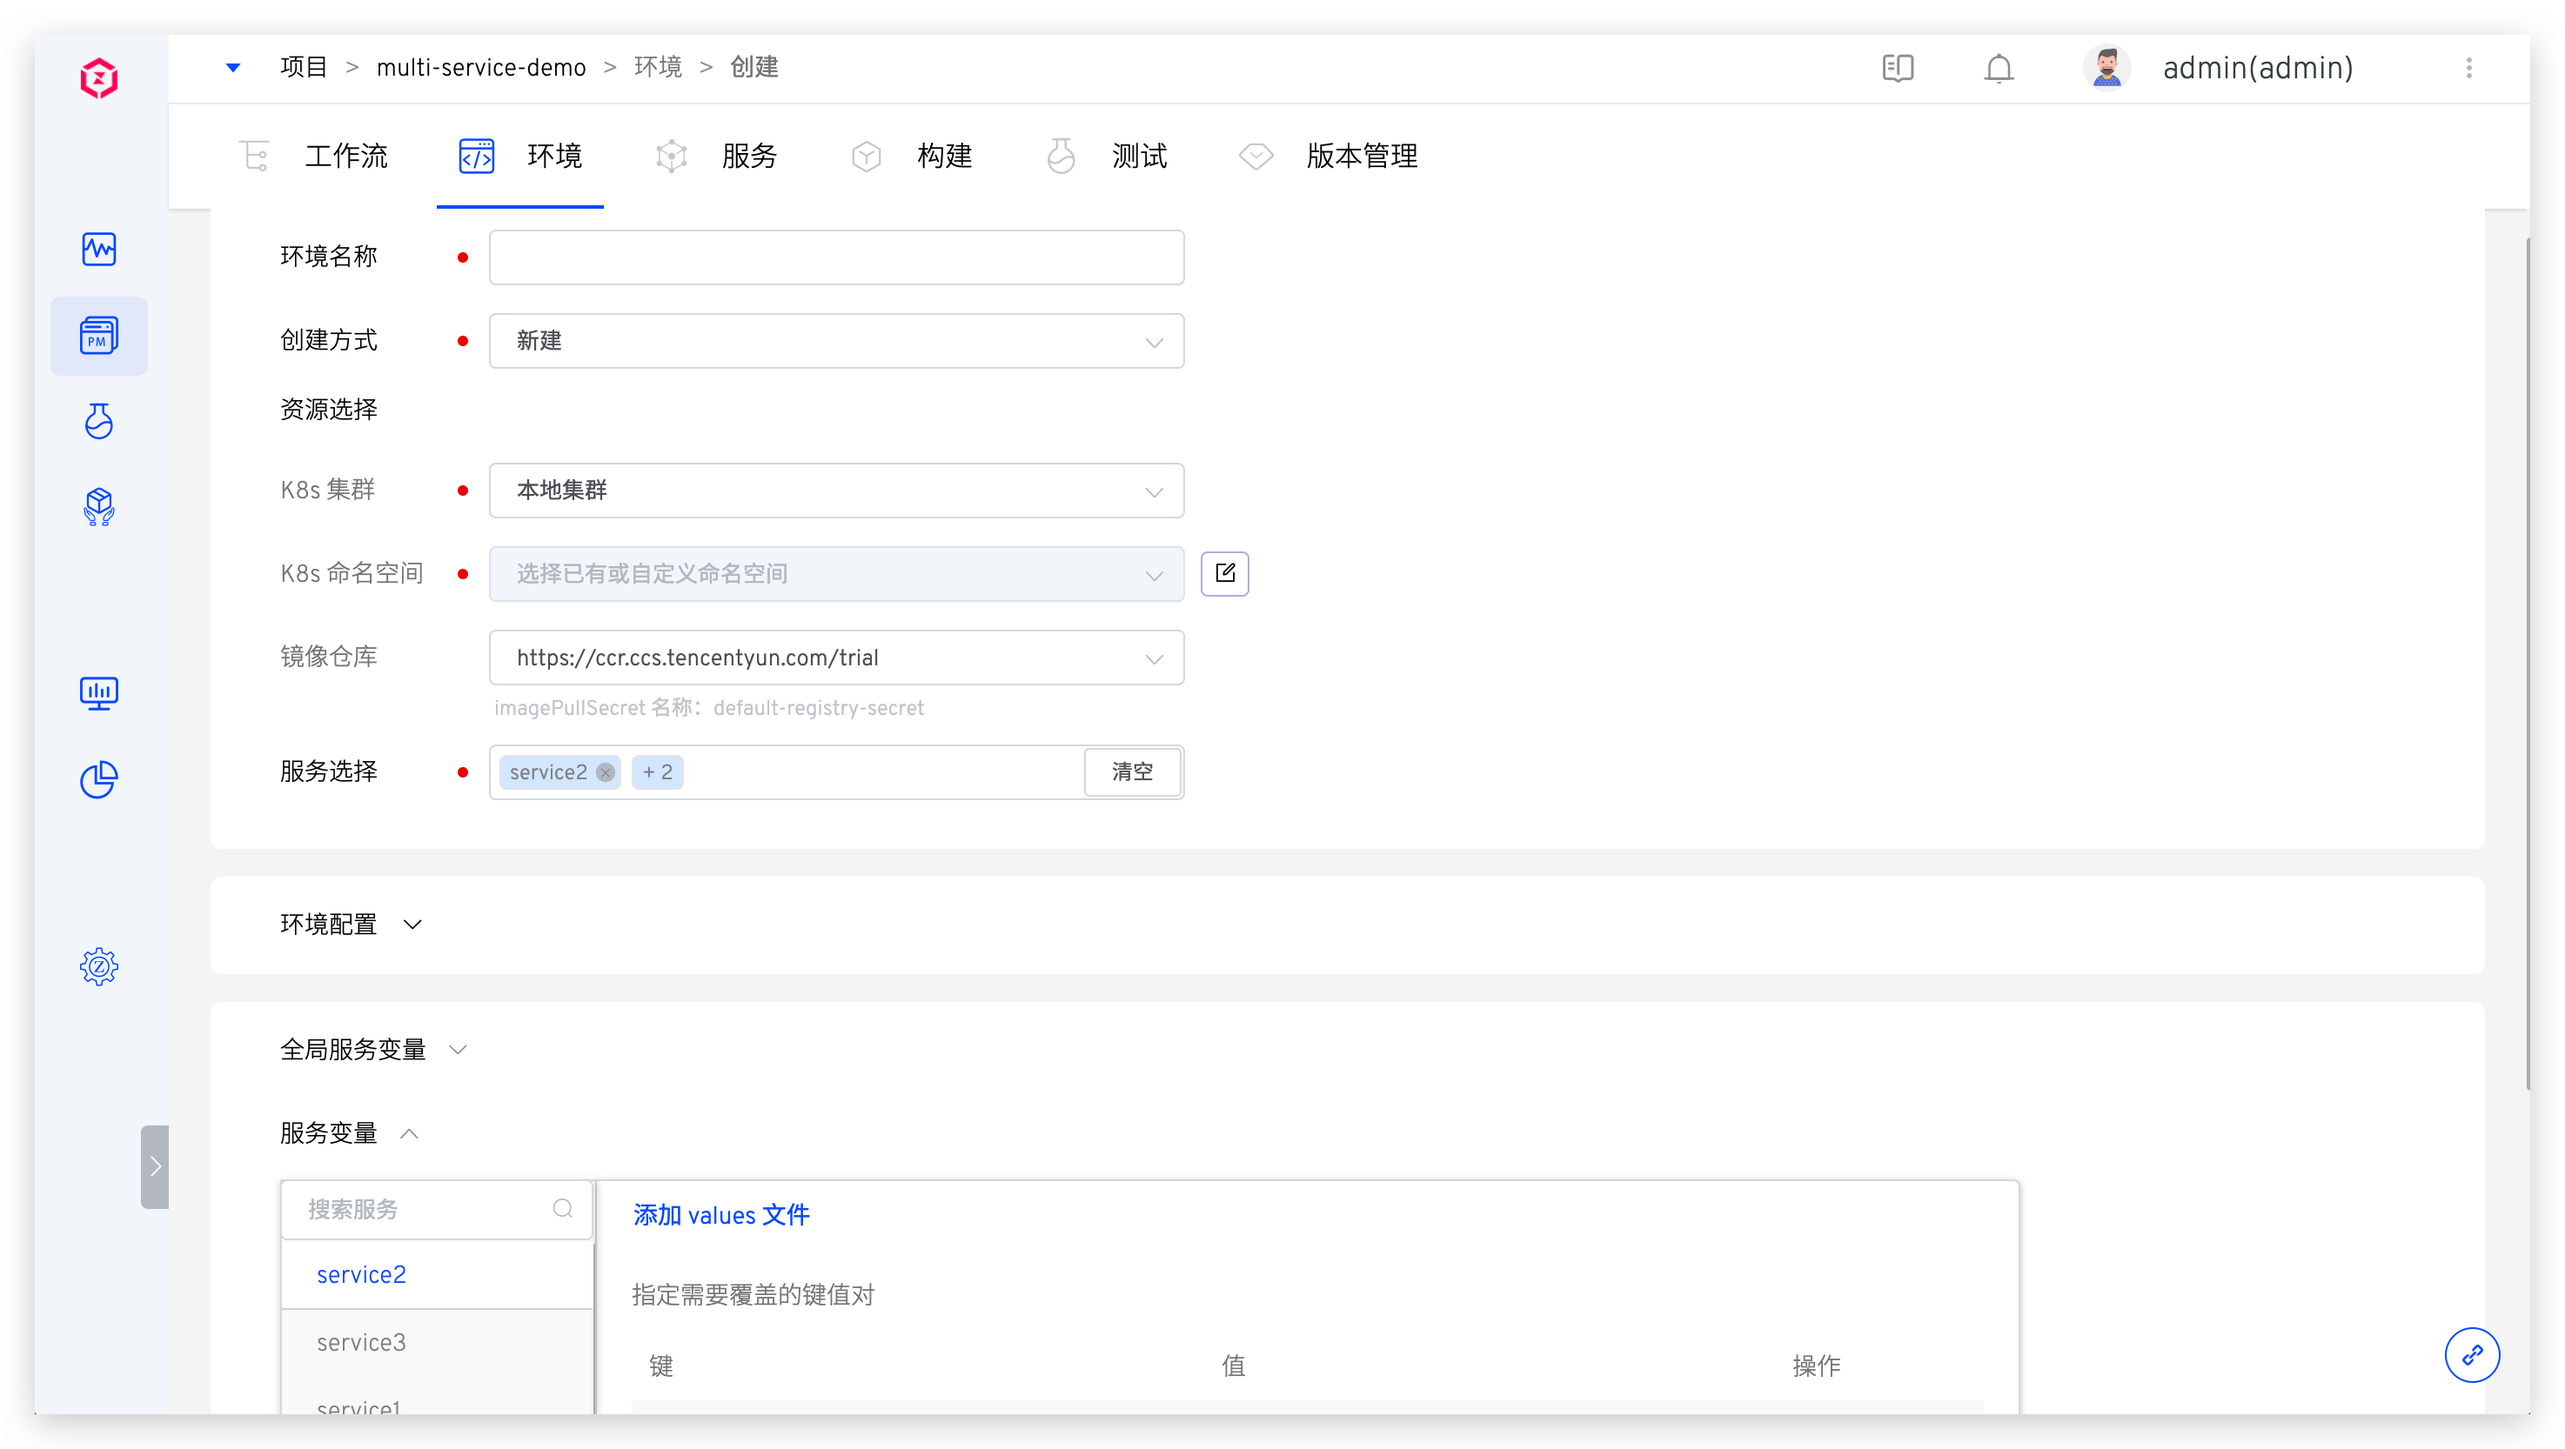
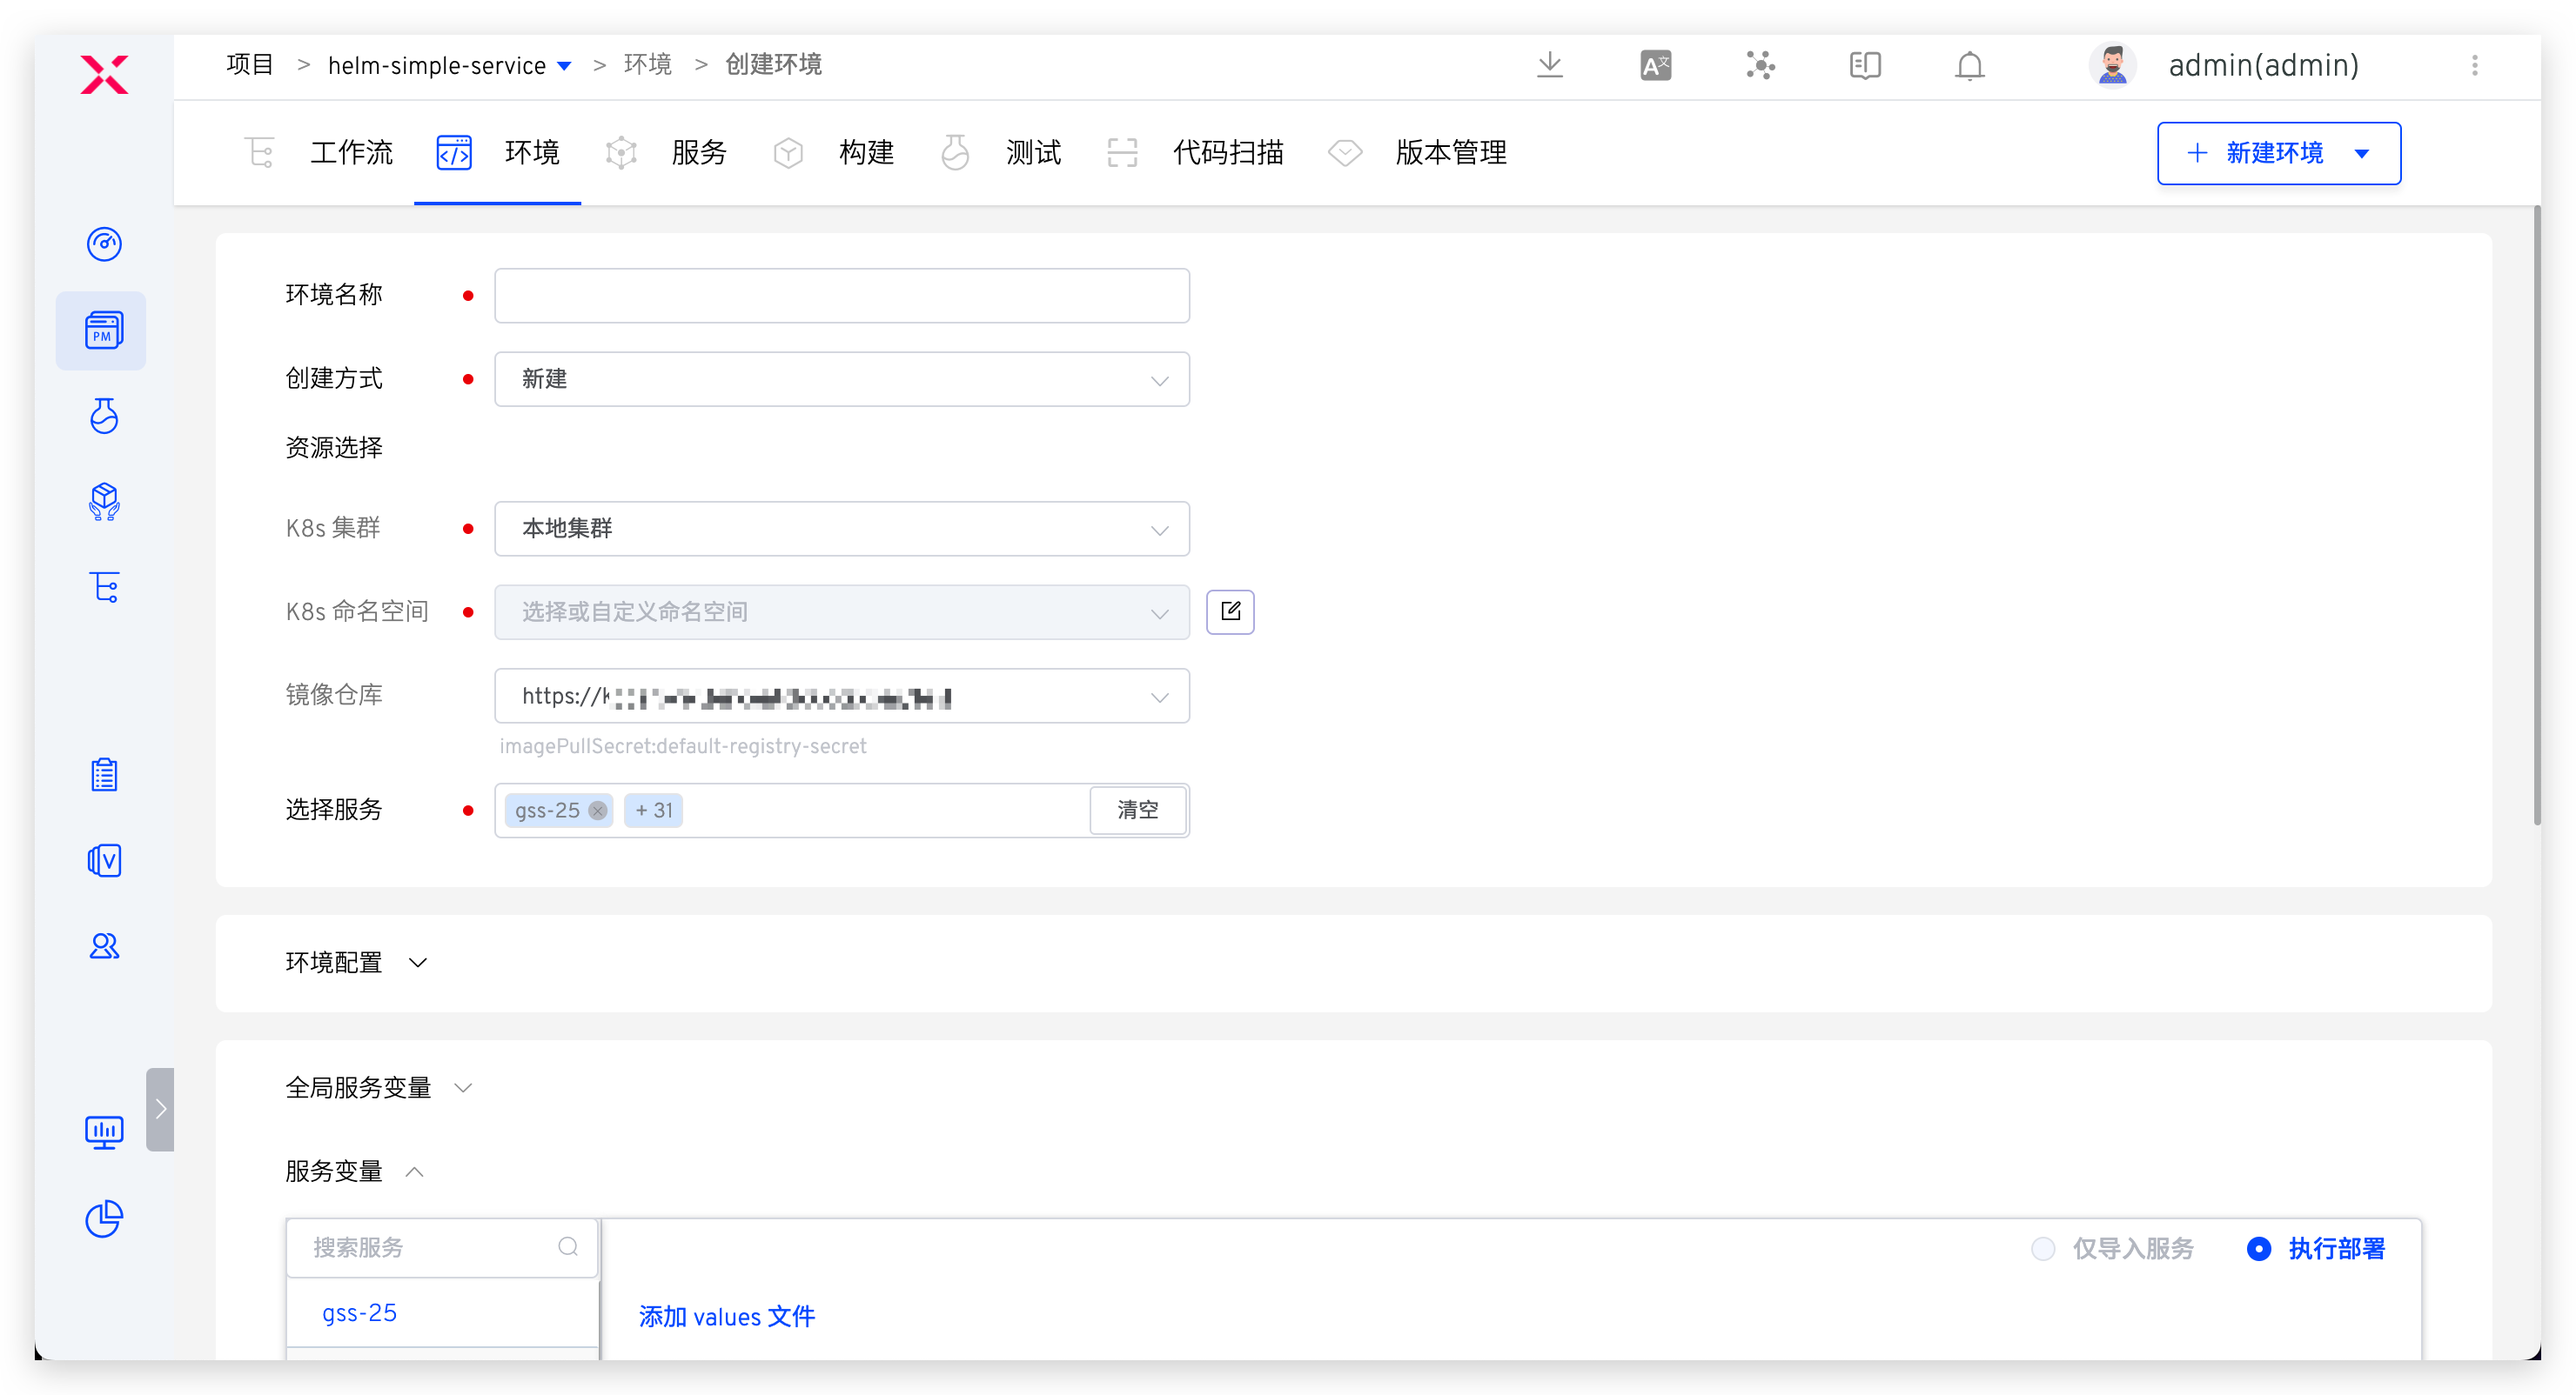
update helm chart test env

diff --git a/ZadigX v1.5.0/05.功能介绍/03.环境/03.k8s_helm_environment.md b/ZadigX v1.5.0/05.功能介绍/03.环境/03.k8s_helm_environment.md
@@ -6,24 +6,39 @@ permalink: /ZadigX v1.5.0/project/env/helm/chart/
 
 本文主要介绍 K8s Helm Chart 项目中的测试环境相关操作。
 
-## 创建环境
+## 查看环境
 
-在项目中，点击`创建环境`按钮，选择测试环境后进入创建环境页面。
+环境创建完成后，点击不同的 Tab 即可切换到该环境的详情页面。
+
+![环境详情](../_images/show_helm_test_env.png)
+
+环境的基本信息包括 K8s 集群，K8s 命名空间，更新时间，环境状态，镜像仓库，服务列表及  Chart 视图。
+
+- Chart 视图的介绍可参考文档：[Chart 视图](#chart-视图)
+- 其他介绍可参考 K8s YAML 测试环境中的描述：[查看环境](/ZadigX%20v1.5.0/project/env/k8s/#查看环境)
+
+## 新建环境
+
+::: tip
+1. 在将指定的服务部署到新创建的环境中前，系统会使用 dryRun 参数对相关 chart 进行渲染，若有提示报错请检查服务 chart 配置是否合法。
+2. 服务数量以及启动服务所需的资源会影响环境的创建时间，请耐心等待。
+:::
+
+在项目中，点击`新建环境`按钮，选择测试环境后进入创建环境页面。
 
 ![新建 Helm Chart 环境](../_images/create_helm_chart_env_1.png)
 
 ![新建 Helm Chart 环境](../_images/create_helm_chart_env_2.png)
 
 ### 基本信息
-- `环境名称`：要创建的环境的名称，比如：`dev`、`pre-release`。
-- `创建方式`：包括`新建`和`复制`。
-	- `新建`：基于服务的 Chart 配置，创建全新的环境。
-	- `复制`：基于在 ZadigX 中已有的环境复制一份新的环境出来。
-- `选择环境`：当创建方式是`复制`时需要配置该项，用于选择要复制的环境。
+
+- `环境名称`：要创建的环境的名称，根据实际语义配置即可，比如：`dev`、`pre-release`。
+- `创建方式`：支持`新建`和`复制`两种方式，复制环境可参考：[复制环境](#复制环境)。
 - `资源选择`：
 	- `K8s 集群`：选择创建环境时所使用的集群资源，其中`本地集群`指 ZadigX 系统所在的集群。关于集群的集成可参考[集群管理](/ZadigX%20v1.5.0/pages/cluster_manage/)。
 	- `K8s 命名空间`：不同的环境会使用独立的 Kubernetes 命名空间实现隔离。ZadigX 系统创建命名空间的默认规则为 `项目名-env-环境名`，用户也可以自定义或者选择已有命名空间。
 	- `镜像仓库`：指定环境创建后所使用的镜像仓库，使用工作流构建部署服务，以及修改服务镜像，均会使用此处指定的镜像仓库。关于镜像仓库的集成可参考[镜像仓库管理](/ZadigX%20v1.5.0/settings/image-registry/#添加镜像仓库)。
+- `服务选择`：选择创建环境所包含的服务，默认为当前项目下的所有服务。
 
 ### 环境配置
 
@@ -35,26 +50,22 @@ permalink: /ZadigX v1.5.0/project/env/helm/chart/
 
 ![新建 Helm Chart 环境配置](../_images/add_k8s_helm_chart_env_config.png)
 
-### 全局变量
-点击展开`全局变量`，可修改 values 文件内容设置环境级别的变量值，系统支持 2 种方式设置全局变量：
+### 全局服务变量
+点击展开`全局服务变量`，可修改 values 文件内容设置环境级别的变量值，支持 2 种方式：
 
 - 手动输入 YAML 格式文件的内容，内容详情即为要设置的变量信息。
-- 从指定 GitHub/GitLab 代码库同步 values。
-	- 在导入时打开自动同步开关，ZadigX 会定时从指定的代码库获取最新的 values 文件并将其自动更新到环境中。
-
-后续代码库中 values 内容有变化时，会自动同步修改当前环境的全局服务变量内容。
+- 从指定 GitHub/GitLab 代码库同步 values。如果打开`自动同步`开关，ZadigX 会定时从指定的代码库获取最新的 values 文件并将其自动更新到环境中。
 
 ![从代码库导入 values](../_images/auto_sync_helm_chart_values_1.png)
 
 ### 服务变量
 
-可选择修改指定服务的 values 文件内容配置服务级别的变量值，系统支持 3 种方式修改服务变量：
+可修改指定服务的 values 文件内容，配置服务级别的变量值，支持 3 种方式：
 - 手动输入 values 文件内容。
-- 从指定 GitHub/GitLab 代码库同步 values 文件。
-	- 在导入时打开自动同步开关，ZadigX 会定时从指定的代码库获取最新的 values 文件并将其自动更新到环境中。
+- 从指定 GitHub/GitLab 代码库同步 values 文件。如果打开`自动同步`开关，ZadigX 会定时从指定的代码库获取最新的 values 文件并将其自动更新到环境中。
+- 手动输入键值对，覆盖服务配置中的 values 文件内容。
 
 ![从代码库导入 values](../_images/auto_sync_helm_chart_values.png)
-- 手动输入 key/value 键值对，覆盖在创建 Helm Chart 服务时导入的 values 文件内容。
 
 ::: tip 扩展知识
 1. 服务变量的设置只对单一服务生效。
@@ -62,67 +73,30 @@ permalink: /ZadigX v1.5.0/project/env/helm/chart/
 2. 如果既设置了全局服务变量，又设置了服务变量时，服务变量的优先级高于全局服务变量。
 :::
 
-### 开始创建
-输入环境名称，按需设置服务变量等信息后，点击`立即创建`按钮即可开始创建环境。
+## 复制环境
 
-::: tip
-1. 在将指定的服务部署到新创建的环境中前，系统会使用 dryRun 参数对相关 chart 进行渲染，若有提示报错请检查服务 chart 配置是否合法。
-2. 服务数量以及启动服务所需的资源会影响环境的创建时间，请耐心等待。
-:::
+参考 K8s YAML 测试环境中的描述：[复制环境](/ZadigX%20v1.5.0/project/env/k8s/#复制环境)。
 
-## 查看环境
-环境创建完成后，点击不同的环境 Tab 即可切换到该环境的详情页面。
-
-![查看 Helm Chart 环境](../_images/helm_chart_env_list.png)
-
-### 基本信息
-基本信息包括 K8s 集群，K8s 命名空间，更新时间，环境状态，镜像仓库，服务列表及 [Chart 视图](#chart-视图)。
-
-环境状态有以下几种情况：
-- `创建中`：正在创建。
-- `更新中`：正在更新。
-- `删除中`：正在删除。
-- `正在运行`：环境中所有服务都是正常的 Running 状态。
-- `运行不稳定`：环境中一部分服务处于 Unstable 状态，可能的情况有两种：
-	- 容器服务出现了问题。
-	- 容器服务正在进行更新操作，例如更新镜像，会出现短时间的服务 Unstable，当更新过程完成之后，服务状态会恢复为 Running。
-- `环境可更新`：当已创建的环境对应的环境模板有更新之后，环境处于可更新状态，有读写权限的用户可以看到`更新环境`按钮，点击按钮可对环境进行模板和配置的更新。
-
-### 基本操作
-
-环境操作包括：
-
-- `更新全局变量`：修改服务的 values 内容，对当前环境下的所有服务都生效
-- `管理服务`：包括[添加服务](#添加服务)、[更新服务](#更新服务)、[删除服务](#删除服务)
-- `环境配置`：为环境配置 Ingress、ConfigMap、Secret、PVC 资源，细节描述请阅读[环境配置管理](/ZadigX%20v1.5.0/project/env/k8s/#环境配置管理)
-- `删除环境`：删除当前创建的环境，环境删除后不可恢复
-
-#### 更新全局变量
-
-点击`更新全局变量`，可修改全局服务变量，支持以下几种方式：
+## 更新全局变量
+点击基本操作中的`更新全局变量`，可修改全局服务变量，修改后对当前环境下的所有服务都生效，支持以下几种方式：
 
 - 可手动输入 values 内容
-- 从代码库导入 values 文件
+- 从代码库导入 values 文件，支持 GitHub/GitLab 代码库
 - 使用变量组，变量组管理参考[变量组配置](/ZadigX%20v1.5.0/project/config/#变量组) 
-
 
 ![更新 Helm Chart 环境变量](../_images/update_helm_env_var.png)
 
-#### 添加服务
+## 管理服务
+点击基本操作中的`管理服务`，可以对环境中的服务进行添加、更新、删除操作。
 
-点击 `管理服务` -> `添加服务` 选择要添加的服务，可按需修改其 values 内容 -> 点击`确定`即可将新的服务添加到当前环境中。
+### 添加服务
+
+点击 `管理服务` -> `添加服务` 选择要添加的服务，可按需修改其 values 内容。选择服务后，系统会自动检测 release 在所选的 Kubernetes 命名空间中是否存在，如果资源已存在，则可以选择一键导入已有服务，或者重新部署服务。
 
 ![添加 Helm Chart 服务](../_images/add_helm_chart_service_01.png)
 ![添加 Helm Chart 服务](../_images/add_helm_chart_service_02.png)
 
-资源检测 
-
-系统将校验 release 在 Namespace 是否存在
-- 如果存在，显示提示 `release 名称在命名空间已存在` ，默认选择 `仅导入服务`。
-- 如果不存在，可以添加 Values 文件、指定需要覆盖的键值对。
-
-
-#### 更新服务
+### 更新服务
 
 点击`管理服务` -> `更新服务` -> 选择要更新的服务，可按需修改其 values 内容 -> 点击`确定`即可对环境中的服务进行更新。
 
@@ -130,20 +104,24 @@ permalink: /ZadigX v1.5.0/project/env/helm/chart/
 
 ![更新 Helm Chart 服务](../_images/update_helm_chart_service.png)
 
-#### 删除服务
+### 删除服务
 
 点击`管理服务` -> `删除服务` -> 选择要删除的服务 -> 点击`确定`即可将该服务从当前环境中删除。
 
 ![删除 Helm Chart 服务](../_images/delete_helm_chart_service.png)
 
-### 变更记录
+## 环境配置
+
+为环境配置 Ingress、ConfigMap、Secret、PVC 资源，细节描述请阅读[环境配置管理](/ZadigX%20v1.5.0/project/env/k8s/#环境配置管理)。
+
+## 自测模式
+
+参考文档：[自测模式](/ZadigX%20v1.5.0/project/env/k8s/#自测模式)。
+
+## 变更记录
 点击右上角的图标可查看该环境的操作日志。
 
 ![变更记录](../_images/env_oplog_helm_chart.png)
-
-### 服务详情
-
-在服务列表中点击具体的服务可查看该服务的更多信息，可以对服务进行服务重启、服务伸缩、配置管理、更新镜像等操作。具体请阅读[服务详情](/ZadigX%20v1.5.0/project/env/service/)。
 
 ### Chart 视图
 
@@ -154,14 +132,6 @@ permalink: /ZadigX v1.5.0/project/env/helm/chart/
 若更新失败，服务会变为红色，可查看具体的失败原因。
 
 ![chart release 视图](../_images/chart_release_view_error_msg.png)
-
-## 环境配置管理
-
-可对环境中的 Ingress、ConfigMap、Secret、PVC 配置进行操作，参考[环境配置管理](/ZadigX%20v1.5.0/project/env/k8s/#环境配置管理)。
-
-## 自测模式
-
-参考[自测模式](/ZadigX%20v1.5.0/project/env/k8s/#自测模式)。
 
 ## 删除环境
 点击`基本操作` -> `更多` -> `删除环境`按钮并输入环境名即可删除环境。当勾选`同时删除环境对应的 K8s 命名空间和服务`后：
